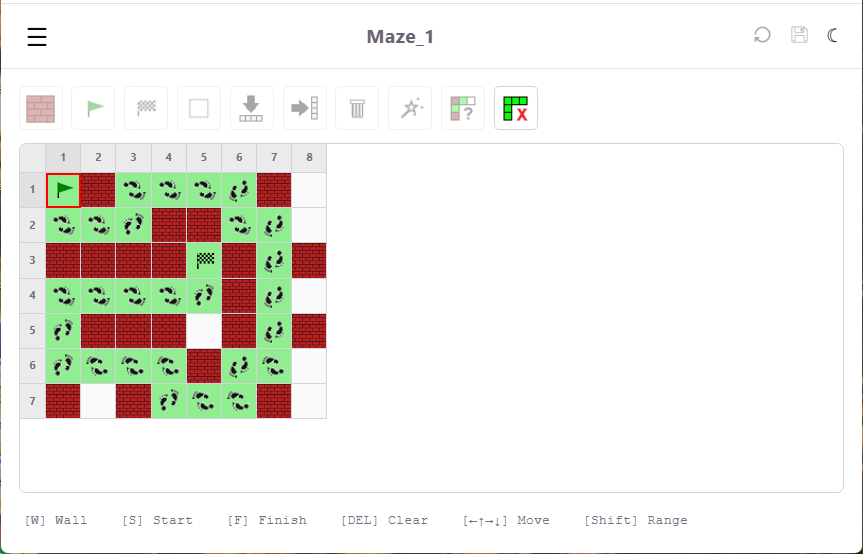
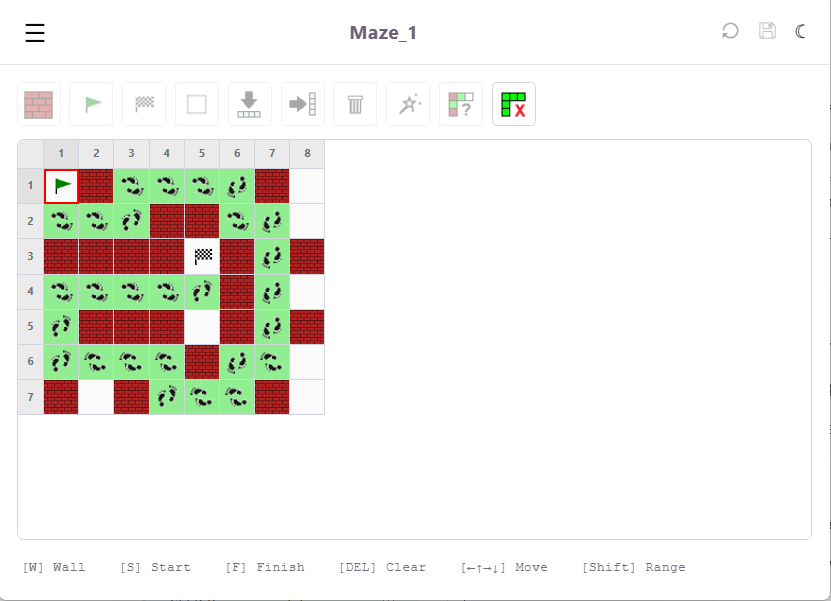
maze_web_server (React): don't include  background shading for start/finish cells when displaying maze solution

diff --git a/src/react/maze_web_server/tests/unit/MazeGrid.test.tsx b/src/react/maze_web_server/tests/unit/MazeGrid.test.tsx
@@ -105,7 +105,7 @@ describe('MazeGrid', () => {
 
   it('applies maze-cell--solution to solution path cells', () => {
     renderGrid({ solution: [{ row: 0, col: 0 }, { row: 1, col: 0 }] })
-    expect(screen.getByLabelText('Cell 1,1').className).toContain('maze-cell--solution')
+    expect(screen.getByLabelText('Cell 1,1').className).not.toContain('maze-cell--solution') // 'S' cell — no solution background
     expect(screen.getByLabelText('Cell 2,1').className).toContain('maze-cell--solution')
     expect(screen.getByLabelText('Cell 1,2').className).not.toContain('maze-cell--solution')
   })

diff --git a/src/react/maze_web_server/src/components/MazeGrid.tsx b/src/react/maze_web_server/src/components/MazeGrid.tsx
@@ -220,7 +220,7 @@ export const MazeGrid = forwardRef<HTMLDivElement, MazeGridProps>(
         }
       }
 
-      if (inSolution) {
+      if (inSolution && grid[row][col] !== 'S' && grid[row][col] !== 'F') {
         classes.push('maze-cell--solution')
       }
 
